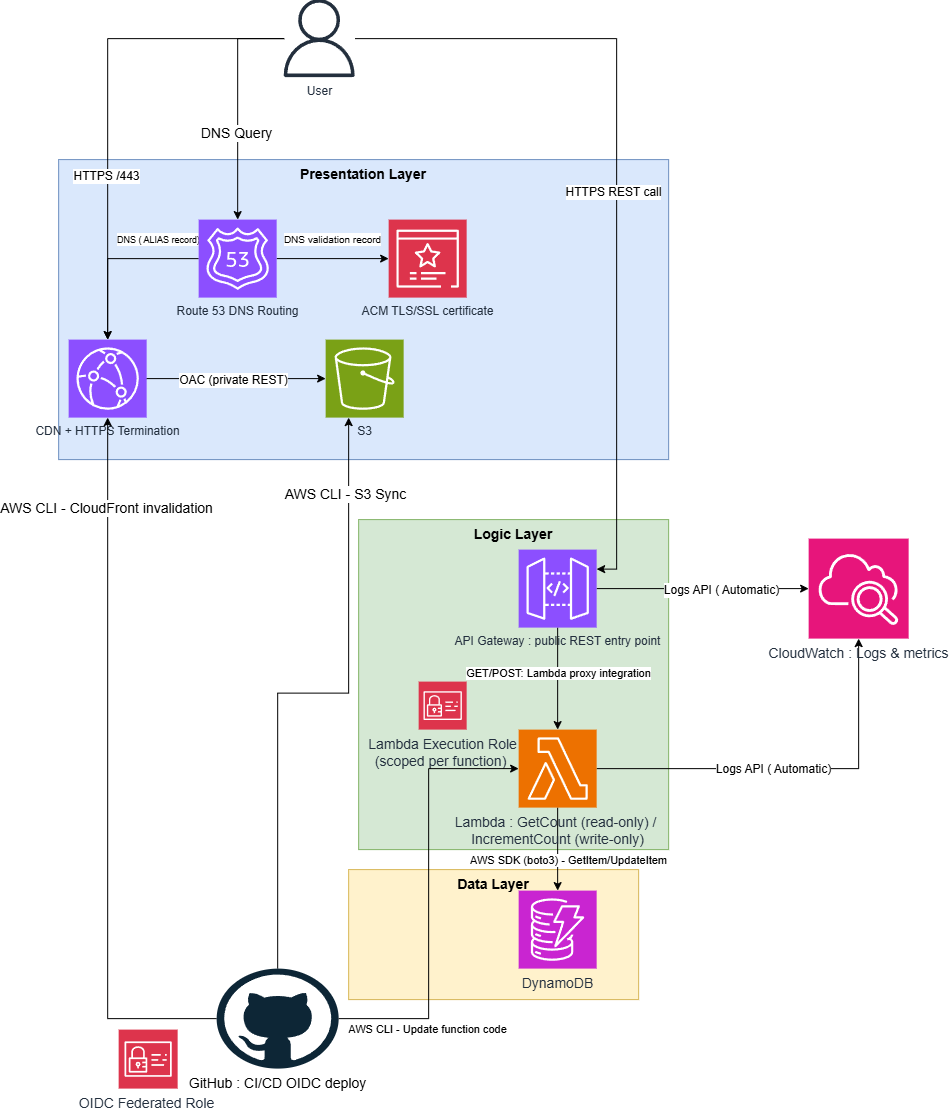
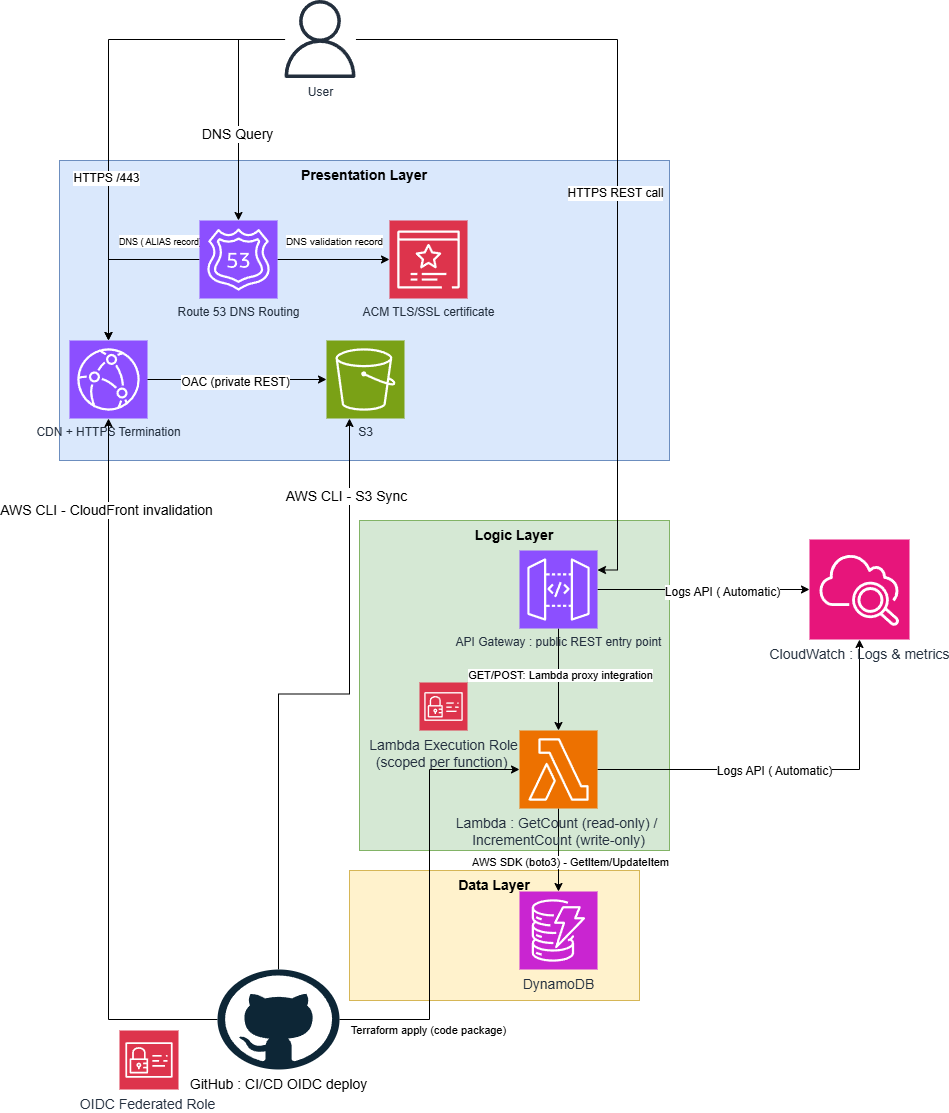
fix(Architecture): Replace AWS CLI - Update function code with Terraform apply (code package). Modify FR20,FR21, NFR6. Add AC-NFR6-1,AC-NFR6-2.

Changed region(s): [[0.0306, 0.0, 1.0, 1.0], [0.0, 0.4277, 0.0306, 0.4582]]

diff --git a/docs/requirements/acceptance-criteria.md b/docs/requirements/acceptance-criteria.md
@@ -73,7 +73,7 @@ Only requirements with non-trivial or ambiguous verification get an entry here. 
 
 ### AC-FR21-1: Backend CI/CD pipeline succeeds
 - **Requirement:** FR21
-- **Criterion:** A push to the backend repository's main branch results in a GitHub Actions run where the pytest job and Terraform apply step both complete successfully
+- **Criterion:** A push to the main branch that changes the deployed infrastructure or the Lambda code results in a GitHub Actions run in which the plan job, the apply job (after manual approval), and the smoke-test job all complete successfully. A push that produces no planned changes ends after the plan job, with the apply and smoke-test jobs skipped.
 - **Verification:** Pipeline/CI validation
 - **Test Reference:** CI workflow run status (`.github/workflows/backend-deploy.yml`)
 
@@ -101,6 +101,18 @@ Only requirements with non-trivial or ambiguous verification get an entry here. 
 - **Verification:** Manual inspection
 - **Test Reference:** _(TBD)_
 
+### AC-NFR6-1: Backend deploy is approved and verified
+- **Requirement:** NFR6
+- **Criterion:** A backend deployment run pauses at the production environment's approval step before applying, shows the planned changes in the run summary, and ends with a successful post-deployment smoke-test job.
+- **Verification:** Pipeline/CI validation
+- **Test Reference:** CI workflow run status (`.github/workflows/backend-deploy.yml`)
+
+### AC-NFR6-2: Frontend deploys automatically and is verified
+- **Requirement:** NFR6
+- **Criterion:** A push to the main branch that changes files under `frontend/` results in a workflow run that syncs the site to S3, invalidates the CloudFront cache, and passes a post-deployment check that the live site returns HTTP 200 with the expected page content.
+- **Verification:** Pipeline/CI validation
+- **Test Reference:** CI workflow run status (frontend deploy workflow, planned; add the file name when it exists)
+
 ---
 
 ## Acceptance Criteria Register
@@ -121,6 +133,7 @@ Only requirements with non-trivial or ambiguous verification get an entry here. 
 | AC-FR24-1 | FR24 | Cache invalidation call succeeds | Pipeline/CI validation | `.github/workflows/frontend-deploy.yml` |
 | AC-FR25-1 | FR25 | Lambda invocation logged to CloudWatch | Integration test | `tests/integration/test_cloudwatch_logging.py` |
 | AC-NFR2-1 | NFR2 | $0/near-$0 cost after 1 week | Manual inspection | _(TBD)_ |
-
+| AC-NFR6-1 | NFR6 | Backend deployment is approved and verified | Pipeline/CI validation | `.github/workflows/backend-deploy.yml` |
+| AC-NFR6-2 | NFR6 | Frontend deployment is automatic and verified | Pipeline/CI validation | `.github/workflows/frontend-deploy.yml` |
 ---
 _Acceptance criteria are written selectively — not every requirement needs one. This table is populated as ambiguous or non-trivial requirements are identified._

diff --git a/docs/requirements/functional-requirements.md b/docs/requirements/functional-requirements.md
@@ -225,10 +225,10 @@ Use the following template for each functional requirement:
 - **Tracked by:** [#24](https://github.com/waelLotfy/cloud-resume-challenge-private/issues/24)
 - **Verification Method:** Demonstration
 
-### FR20: Backend GitHub repository
+### FR20: Backend source control
 
-- **Description:** A GitHub repository shall be created for the backend code.
-- **Rationale:** Separates backend and frontend concerns, enabling independent versioning and pipelines.
+- **Description:** The backend code shall be version-controlled in a GitHub repository.
+- **Rationale:** Enables change tracking and automated pipelines. Backend and frontend pipelines stay independent through path-filtered workflows within a single repository.
 - **Tier/Component:** Cross-cutting
 - **Related Architecture:** [Cross-Cutting Concerns](../architecture/architecture-overview.md#cross-cutting-concerns)
 - **Acceptance Criteria:** Self-evident — no dedicated AC
@@ -237,8 +237,8 @@ Use the following template for each functional requirement:
 
 ### FR21: CI/CD for backend code
 
-- **Description:** GitHub Actions shall be set up for code implementation, tests, and deployment of the backend code.
-- **Rationale:** Ensures the backend is automatically tested and deployed on changes.
+- **Description:** GitHub Actions shall be set up to deploy the backend code and to verify the deployment with automated tests.
+- **Rationale:** Ensures backend changes are deployed automatically and checked immediately afterwards.
 - **Tier/Component:** Cross-cutting
 - **Related Architecture:** [Cross-Cutting Concerns](../architecture/architecture-overview.md#cross-cutting-concerns)
 - **Acceptance Criteria:** [AC-FR21-1](./acceptance-criteria.md#ac-fr21-1-backend-cicd-pipeline-succeeds)

diff --git a/docs/requirements/non-functional-requirements.md b/docs/requirements/non-functional-requirements.md
@@ -90,8 +90,8 @@ Use the following template for each non-functional requirement:
 ### NFR6: Gated CI/CD auto-deploy
 
 - **Category:** Maintainability
-- **Description:** Frontend and backend shall each auto-deploy on push to their respective GitHub repos, gated by passing tests.
-- **Rationale:** Ensures only validated code reaches production while keeping deployments automated.
+- **Description:** Frontend and backend shall each deploy automatically on a push to the main branch that changes their respective paths. Backend deployments shall require review of the planned changes and manual approval, and both deployments shall be verified by automated checks immediately afterwards.
+- **Rationale:** Keeps deployments automated while ensuring that production changes are reviewed and that a failed deployment is detected immediately.
 - **Related Architecture:** [Cross-Cutting Concerns](../architecture/architecture-overview.md#cross-cutting-concerns)
 - **Acceptance Criteria:** [AC-FR21-1](./acceptance-criteria.md#ac-fr21-1-backend-cicd-pipeline-succeeds), [AC-FR23-1](./acceptance-criteria.md#ac-fr23-1-frontend-cicd-pipeline-succeeds)
 - **Tracked by:** [#38](https://github.com/waelLotfy/cloud-resume-challenge-private/issues/38)

diff --git a/docs/architecture/architecture-overview.md b/docs/architecture/architecture-overview.md
@@ -26,10 +26,11 @@ a single icon in the diagram for brevity. Each function reads/writes the
 count in DynamoDB using its own scoped IAM role and returns it back up the 
 chain to the browser.
 
-Deployments work the same way in both directions: GitHub Actions pushes 
-frontend changes to S3 and invalidates the CloudFront cache, and pushes 
-backend changes straight to the Lambda function, all using a short-lived 
-IAM role instead of stored AWS credentials.
+Deployments are automated with GitHub Actions.
+Frontend changes are synced to S3 and the CloudFront cache is invalidated.
+Backend changes, including the Lambda code, are deployed by applying the Terraform configuration after
+a manual approval, so Terraform remains the single source of truth for what runs in AWS.
+Both pipelines authenticate with short-lived IAM roles instead of stored AWS credentials.
 </br>
 
 ## Security
